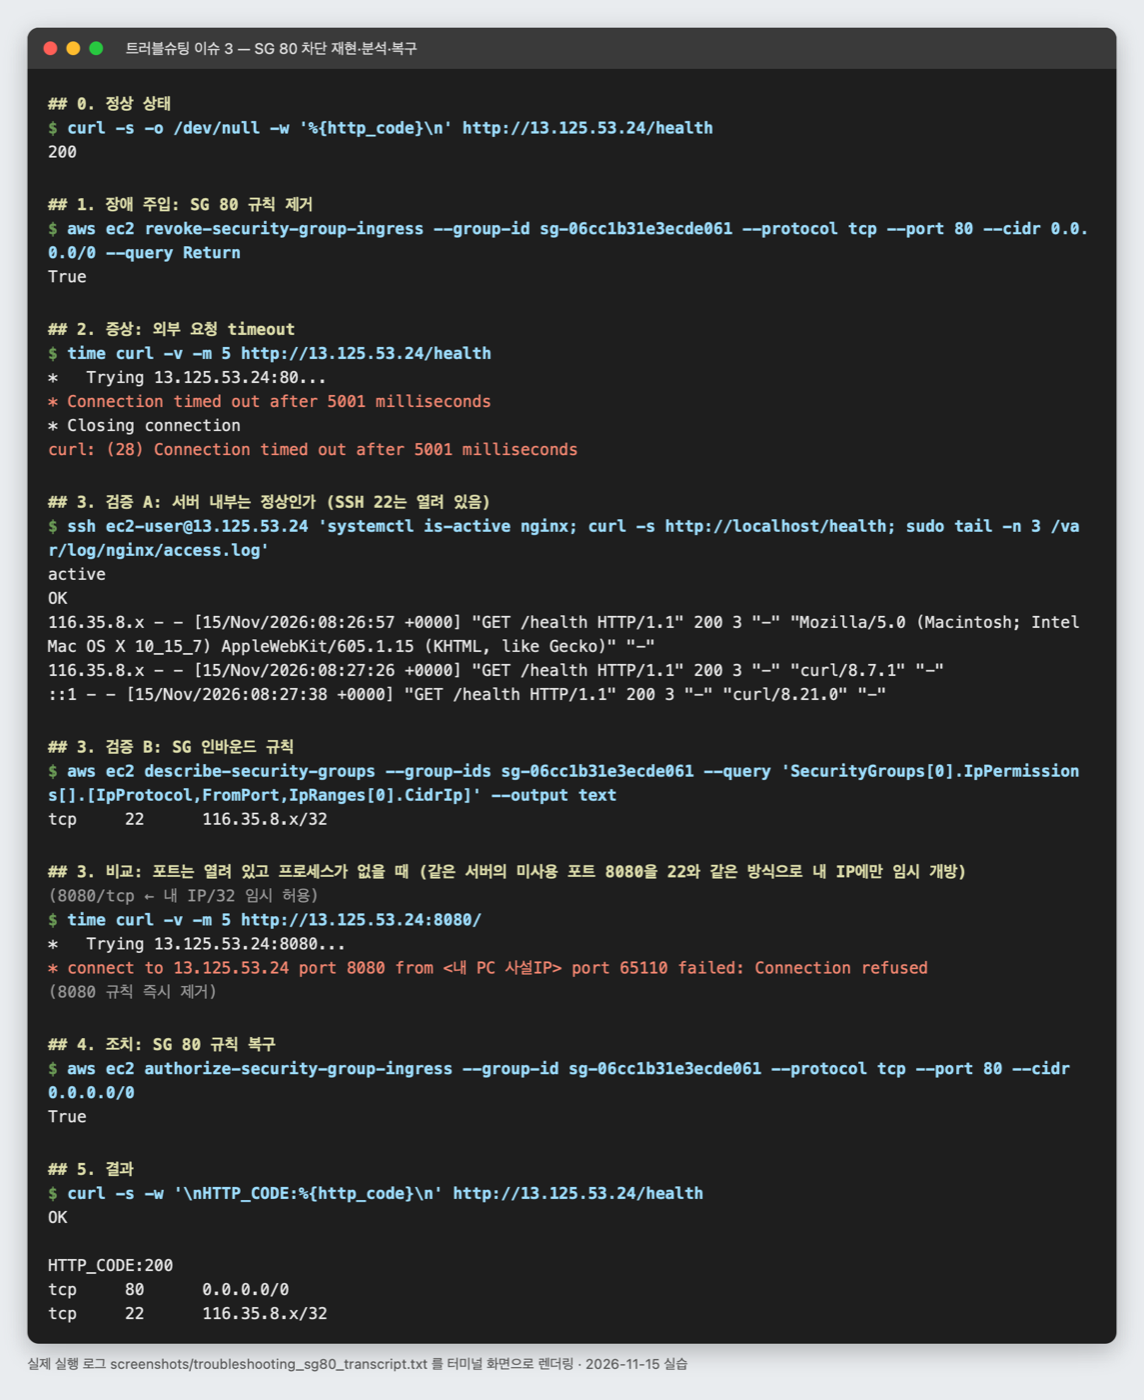
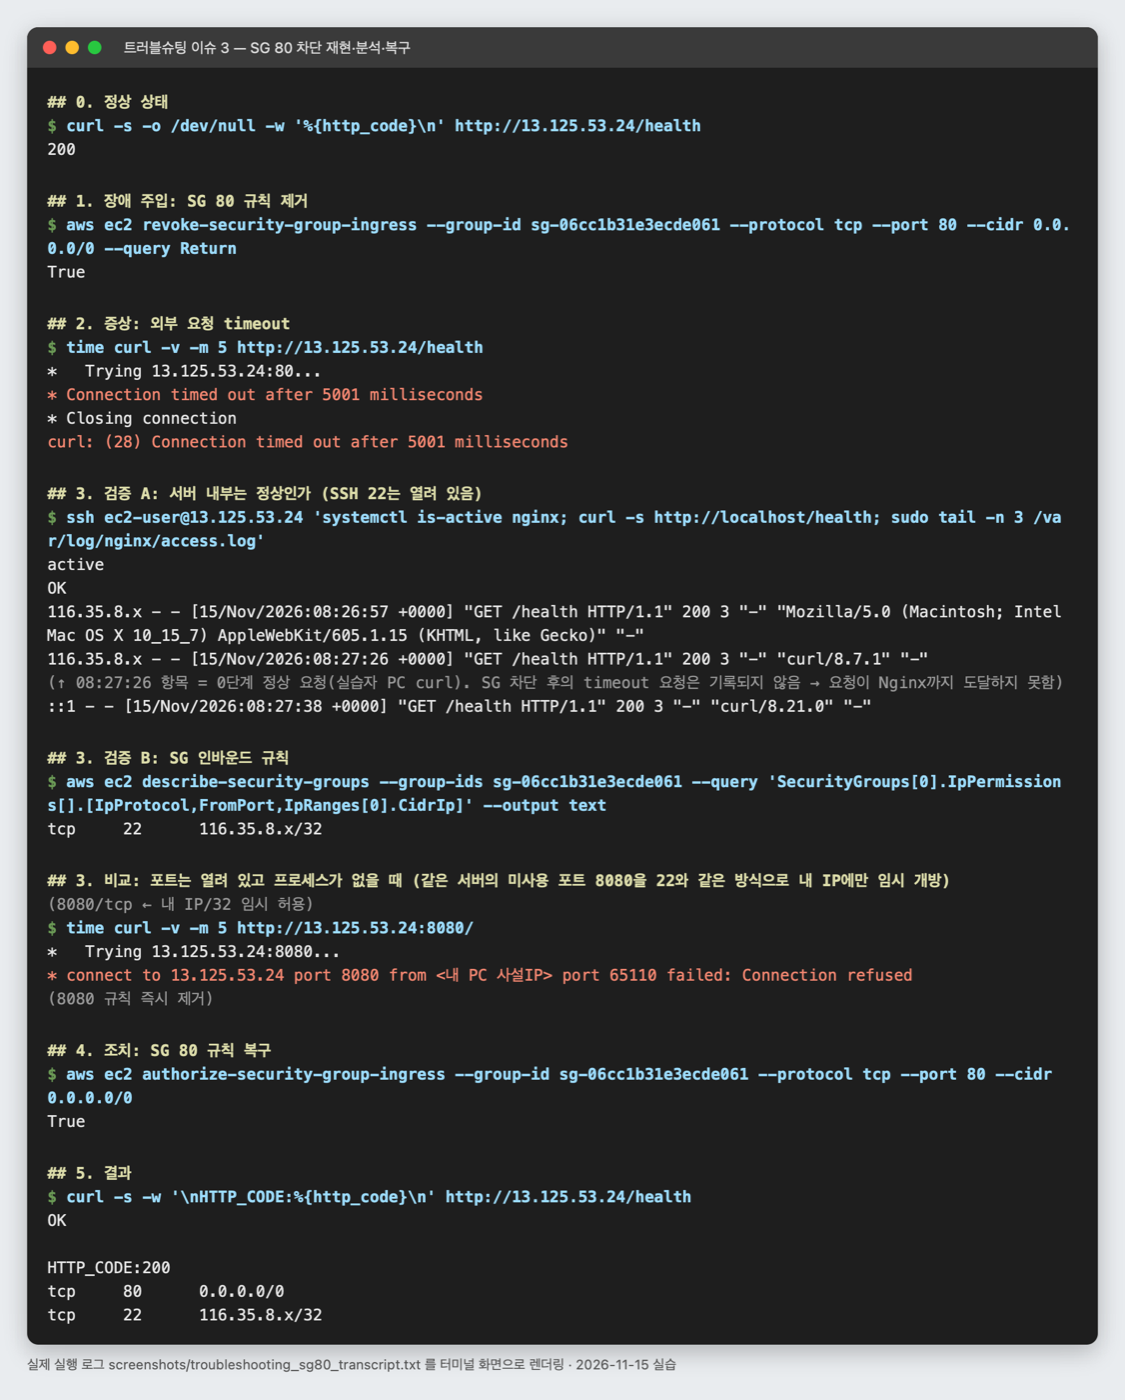
docs: 리뷰 반영 — 루트 계정 사용을 편차로 기록, 시나리오 실행 안정성, timeout/refused 결론 범위 한정
- 루트 계정 부트스트랩·청구서 확인을 "제약 충족"이 아닌 편차로 명시 (README, WORK_REPORT)
- 시나리오: ~/.ssh 생성 후 키 저장, 실패 시 중단 / user-data 완료(cloud-init) 대기 후 검증
- timeout=SG, refused=프로세스를 일반 규칙이 아닌 이번 테스트 결과와 진단 출발점으로 한정
- 트러블슈팅 로그의 08:27:26 항목이 정상 요청임을 주석으로 표시, 실행 화면 재생성

diff --git a/docs/troubleshooting.md b/docs/troubleshooting.md
@@ -40,4 +40,4 @@
 | 검증 방법 | **A. 서버 내부**: 22 포트로 SSH 접속해 `systemctl is-active nginx` → `active`, `curl localhost/health` → `OK`. Nginx `access.log`에는 마지막 외부 요청이 장애 직전(08:27:26)까지만 있고, timeout된 요청은 **기록되지 않음** = 요청이 Nginx까지 도달하지 못함. SSH가 된다는 것은 라우팅·IGW·퍼블릭 IP도 정상이라는 뜻이므로 ①②는 배제.<br>**B. SG 규칙**: `describe-security-groups` 결과 인바운드가 `tcp 22 <내 IP>/32` 하나뿐이고 80 규칙이 없음.<br>**C. 대조 실험**: 프로세스가 없는 8080 포트를 내 IP에만 잠깐 열고 요청하니 즉시 `Connection refused` → "SG 차단 = timeout, 프로세스 없음 = refused"를 직접 확인한 뒤 8080 규칙은 바로 제거. |
 | 조치 내용 | `aws ec2 authorize-security-group-ingress --group-id <SG> --protocol tcp --port 80 --cidr 0.0.0.0/0`로 HTTP 인바운드 규칙 복구. |
 | 결과 | `curl http://13.125.53.24/health` → `OK`, `HTTP_CODE:200`. SG 인바운드가 다시 `80 ← 0.0.0.0/0`, `22 ← 내 IP/32` 두 개로 확인됨. |
-| 재발 방지 | ① 배포 체크리스트에 "SG 인바운드 80/22 규칙 확인(`describe-security-groups`)"을 추가한다. ② 외부 접속 장애는 **timeout이면 SG·라우팅, refused면 서버 프로세스**부터 본다. ③ 서버 내부 `curl localhost`와 외부 `curl <퍼블릭IP>`를 함께 확인해 문제 구간(서버 안/밖)을 먼저 나눈다. |
+| 재발 방지 | ① 배포 체크리스트에 "SG 인바운드 80/22 규칙 확인(`describe-security-groups`)"을 추가한다. ② 외부 접속 장애는 증상으로 확인 순서를 정한다. 이번에는 SG 규칙 누락이 timeout을, 프로세스 없는 포트가 refused를 냈다. 일반적으로 timeout이면 SG·NACL·라우팅부터, refused면 서버 프로세스·호스트 방화벽부터 보지만, 이는 출발점일 뿐이고 원인은 별도 검증으로 확정한다. ③ 서버 내부 `curl localhost`와 외부 `curl <퍼블릭IP>`를 함께 확인해 문제 구간(서버 안/밖)을 먼저 나눈다. |

diff --git a/docs/scenario.md b/docs/scenario.md
@@ -217,9 +217,12 @@ aws ec2 describe-security-groups --group-ids $SG_ID \
 
 ```bash
 # 키 페어 (개인키는 재발급 불가 → 안전하게 보관, 저장소에 커밋 금지)
+# ~/.ssh가 없는 새 계정에서도 저장되도록 먼저 만들고, 실패하면 여기서 멈춘다
+mkdir -p ~/.ssh && chmod 700 ~/.ssh
 aws ec2 create-key-pair --key-name codyssey-mission2-key \
-  --query KeyMaterial --output text > ~/.ssh/codyssey-mission2-key.pem
-chmod 400 ~/.ssh/codyssey-mission2-key.pem
+  --query KeyMaterial --output text > ~/.ssh/codyssey-mission2-key.pem \
+  && chmod 400 ~/.ssh/codyssey-mission2-key.pem \
+  || { echo "키 페어 생성/저장 실패 — 다음 단계로 진행하지 마세요"; return 1 2>/dev/null || exit 1; }
 
 # 최신 Amazon Linux 2023 AMI (SSM 권한 없이 EC2 API로 조회)
 AMI_ID=$(aws ec2 describe-images --owners amazon \
@@ -263,7 +266,15 @@ echo "INSTANCE=$INSTANCE_ID PUBLIC_IP=$PUBLIC_IP"
 ssh -i ~/.ssh/codyssey-mission2-key.pem ec2-user@$PUBLIC_IP
 ```
 
-인스턴스 안에서 실행합니다.
+인스턴스 안에서 실행합니다. `instance-status-ok`는 인스턴스 상태만 보는 것이라, user-data(Nginx 설치)가 아직 진행 중일 수 있습니다. 먼저 cloud-init이 끝나기를 기다립니다.
+
+```bash
+cloud-init status --wait        # status: done 이 나와야 함
+# status: error 라면 아래 로그로 원인을 확인하고, 해결 전에는 검증 단계로 넘어가지 않는다
+sudo tail -n 50 /var/log/cloud-init-output.log
+```
+
+그다음 서비스를 확인합니다.
 
 ```bash
 systemctl is-active nginx                                       # active
